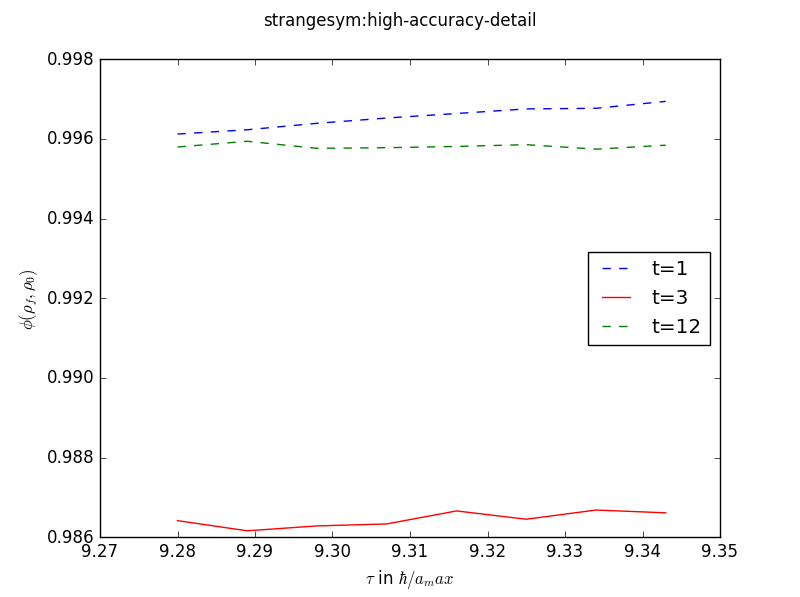
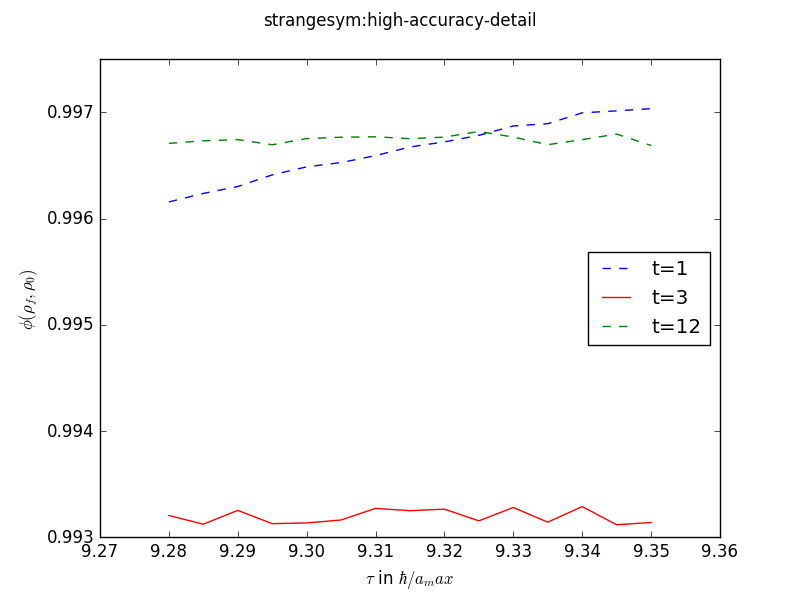
high accuracy try to find max, lo and behold its close to 9.325 still

diff --git a/sousa06/symFindPulse.py b/sousa06/symFindPulse.py
@@ -161,7 +161,7 @@ def X_factory(theta, constPair, antisym, tau, normproc="simple", a=None, b=None)
 # base = "data/sawtooth/p2_x-w_full/"
 # base = "data/throw"
 wave = "strangesym"
-ptitle = "high-accuracy"
+ptitle = "high-accuracy-detail"
 base = "data/"+wave+"/"+ptitle+"/"
 _antisym = False
 _theta = pi
@@ -170,9 +170,9 @@ _normproc = "full"
 
 # tau_start = (11.6 * pi/ 3.0) * hoa
 # tau_end = (12.7 * pi / 3.0) * hoa
-tau_start = 9.20 * hoa
-tau_end = 9.51 * hoa
-dtau = 0.05 * hoa
+tau_start = 9.28 * hoa
+tau_end = 9.351 * hoa
+dtau = 0.005 * hoa
 
 print base
 if not os.path.exists(base):
@@ -194,12 +194,12 @@ def minmax(f, s, e):
     mi = min(fs)
     return ma, mi
 
-times = [0.2* hoa, 3.0* hoa, 32.0* hoa]
+times = [0.2* hoa, 15.0* hoa, 50.0* hoa]
 ###
 # Performance Params
 ###
-N = 8192 # number of RTN trajectories
-stepsize = 0.020 # Step-forward matrices step size, dont lower
+N = 30000 # number of RTN trajectories
+stepsize = 0.018 # Step-forward matrices step size, dont lower
 
 ###
 t_end = times[2] + 0.32 # end of RTN
@@ -524,7 +524,7 @@ tis = np.linspace(0, 10, 1000)
 pulseshape_data = [pulseshape(ti) for ti in tis]
 pshape = plt.figure()
 plt.plot(tis, pulseshape_data, 'b-')
-plt.show()
+# plt.show()
 
 plt.ion()
 fig, ax = plt.subplots()
